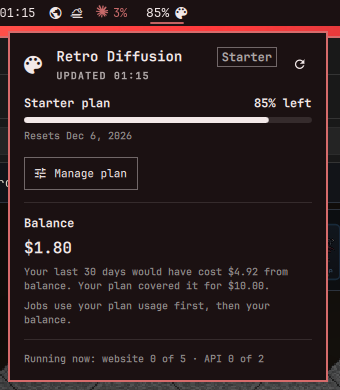
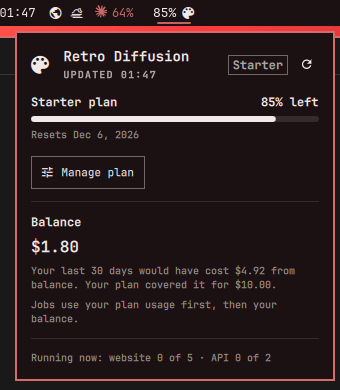
Line up the plan badge with the refresh button
The badge used PanelHero's detail slot, which rides the title line, while
the refresh button is centred on the whole hero. Put both in the trailing
control so they share a centre line, and refresh the preview to match.

diff --git a/Panel.qml b/Panel.qml
@@ -168,7 +168,6 @@ Panel {
           meta: service.busy
             ? strings.t("updating", "Updating…")
             : (service.updatedAt ? strings.t("updated", "Updated %1").arg(root.formatTime(service.updatedAt)) : "")
-          detail: root.hasPlan ? root.plan.name : ""
           foreground: root.foreground
           fontFamily: root.fontFamily
           iconComponent: Component {
@@ -180,14 +179,44 @@ Panel {
               font.pixelSize: Style.font.display
             }
           }
+          // The plan badge sits here, beside the refresh button, rather than
+          // in PanelHero's `detail` slot: that slot rides the title line,
+          // while the trailing control is centred on the whole hero, so the
+          // two never lined up.
           trailingControl: Component {
-            PanelActionButton {
-              iconText: root.refreshGlyph
-              tooltipText: strings.t("action.refresh", "Refresh (R)")
-              foreground: root.foreground
-              fontFamily: root.fontFamily
-              enabled: !service.busy
-              onClicked: root.refreshAll()
+            Row {
+              spacing: Style.space(8)
+
+              BorderSurface {
+                visible: root.hasPlan
+                anchors.verticalCenter: parent.verticalCenter
+                implicitWidth: planBadge.implicitWidth + Style.space(10)
+                implicitHeight: planBadge.implicitHeight + Style.space(4)
+                color: "transparent"
+                borderSpec: Border.controlSpec("normal", root.foreground, Commons.Color.accent)
+                radius: Style.cornerRadius
+
+                Text {
+                  id: planBadge
+                  textFormat: Text.PlainText
+                  anchors.centerIn: parent
+                  text: root.hasPlan ? root.plan.name : ""
+                  color: Qt.darker(root.foreground, 1.4)
+                  font.family: root.fontFamily
+                  font.pixelSize: Style.font.body
+                  font.bold: true
+                }
+              }
+
+              PanelActionButton {
+                anchors.verticalCenter: parent.verticalCenter
+                iconText: root.refreshGlyph
+                tooltipText: strings.t("action.refresh", "Refresh (R)")
+                foreground: root.foreground
+                fontFamily: root.fontFamily
+                enabled: !service.busy
+                onClicked: root.refreshAll()
+              }
             }
           }
         }
